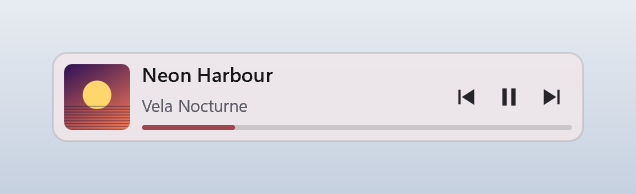
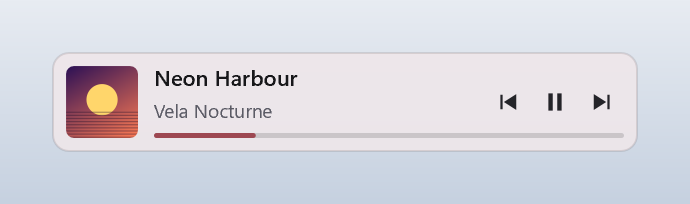
Barra e striscia agganciata: 10% piu' grandi e con piu' aria ai bordi
Altezza 45 -> 50 DIP, margine dal bordo 6 -> 7, stacco interno 6 -> 8,
copertina 36, bottoni 23, titolo 11 e artista 9,5 pt; default bar_width
266 -> 293 (minimo 185). Spessore della progress, bordo, pesi e palette
invariati: stessa cosa piu' grande, non un restyling. Taskbar e tile
non toccati (i loro PNG rigenerati sono byte-identici). Screenshot,
GIF e social preview di docs/media rigenerati. README.

Changed region(s): [[0.0597, 0.2474, 0.9261, 0.7423]]

diff --git a/src/render.cpp b/src/render.cpp
@@ -13,16 +13,19 @@ namespace {
 // in DIP, quindi la riduzione vale identica a ogni densità.
 constexpr float kProgressH = 2.5f;
 
-// Bar / Docked
-constexpr float kBarHeight  = 45.f;
-constexpr float kBarPad     = 6.f;
-constexpr float kBarArt     = 33.f;  // = kBarHeight - kBarPad * 2
-constexpr float kBarButton  = 21.f;
-constexpr float kBarCorner  = 7.f;
-constexpr float kBarProgY   = 36.5f;  // = kBarHeight - kBarPad - kProgressH
-constexpr float kBarGap     = 6.f;    // copertina/testo/controlli
-constexpr float kDockedMaxW = 392.f;
-constexpr float kBarMinW    = 168.f;
+// Bar / Docked. Dalla 1.1 la barretta è ~10% più alta e ha più aria attorno ai
+// contenuti: il margine dal bordo passa da 6 a 7 DIP e lo stacco fra copertina,
+// testo e comandi da 6 a 8. Spessore della progress, bordo e pesi del testo
+// restano quelli di prima: qui si cambia la misura, non lo stile.
+constexpr float kBarHeight  = 50.f;
+constexpr float kBarPad     = 7.f;
+constexpr float kBarArt     = 36.f;  // = kBarHeight - kBarPad * 2
+constexpr float kBarButton  = 23.f;
+constexpr float kBarCorner  = 8.f;
+constexpr float kBarProgY   = 40.5f;  // = kBarHeight - kBarPad - kProgressH
+constexpr float kBarGap     = 8.f;    // copertina/testo/controlli
+constexpr float kDockedMaxW = 420.f;
+constexpr float kBarMinW    = 185.f;
 constexpr float kBarMaxW    = 840.f;
 
 // Docked sui bordi laterali: striscia stretta e alta quanto lo schermo. Il
@@ -91,7 +94,7 @@ Geometry ComputeGeometry(const RenderState& st, float w, float h) {
             ThreeButtons(g, ctrlLeft, h * 0.5f, kBarButton);
 
             const float textLeft = x0 + kBarPad + kBarArt + kBarGap;
-            g.text = D2D1::RectF(textLeft, 3.f, ctrlLeft - kBarGap, kBarProgY - 2.f);
+            g.text = D2D1::RectF(textLeft, 4.f, ctrlLeft - kBarGap, kBarProgY - 3.f);
             g.progress = D2D1::RectF(textLeft, kBarProgY, x0 + cw - kBarPad, kBarProgY + kProgressH);
 
             g.showText    = true;
@@ -405,8 +408,9 @@ bool Renderer::Init(HWND hwnd, UINT dpi) {
         }
         return true;
     };
-    if (!makeFormat(10.0f, DWRITE_FONT_WEIGHT_SEMI_BOLD, fmtTitle_)) return false;
-    if (!makeFormat(8.5f, DWRITE_FONT_WEIGHT_NORMAL, fmtArtist_)) return false;
+    // Barretta e docked: cresciuti insieme all'altezza, stesso peso di prima.
+    if (!makeFormat(11.0f, DWRITE_FONT_WEIGHT_SEMI_BOLD, fmtTitle_)) return false;
+    if (!makeFormat(9.5f, DWRITE_FONT_WEIGHT_NORMAL, fmtArtist_)) return false;
     if (!makeFormat(11.0f, DWRITE_FONT_WEIGHT_SEMI_BOLD, fmtTitleSm_)) return false;
     if (!makeFormat(9.5f, DWRITE_FONT_WEIGHT_NORMAL, fmtArtistSm_)) return false;
 

diff --git a/src/config.cpp b/src/config.cpp
@@ -125,7 +125,7 @@ void Config::Load() {
     overlayLayout = (ReadStr(path_, L"overlay", L"layout", L"bar") == L"tile")
                         ? OverlayLayout::Tile
                         : OverlayLayout::Bar;
-    barWidth      = Clamp(ReadInt(path_, L"overlay", L"bar_width", 266), 168, 840);
+    barWidth      = Clamp(ReadInt(path_, L"overlay", L"bar_width", 293), 185, 840);
     tileSize      = Clamp(ReadInt(path_, L"overlay", L"tile_size", 92), 68, 224);
     x             = ReadInt(path_, L"overlay", L"x", INT_MIN);
     y             = ReadInt(path_, L"overlay", L"y", INT_MIN);
@@ -164,7 +164,7 @@ void Config::WriteDefaultsIfMissing() {
     WritePrivateProfileStringW(L"general", L"preferred_app", L"Spotify", path_.c_str());
     WritePrivateProfileStringW(L"general", L"theme", L"auto", path_.c_str());
     WritePrivateProfileStringW(L"overlay", L"layout", L"bar", path_.c_str());
-    WritePrivateProfileStringW(L"overlay", L"bar_width", L"266", path_.c_str());
+    WritePrivateProfileStringW(L"overlay", L"bar_width", L"293", path_.c_str());
     WritePrivateProfileStringW(L"overlay", L"tile_size", L"92", path_.c_str());
     WritePrivateProfileStringW(L"overlay", L"idle_opacity", L"140", path_.c_str());
     WritePrivateProfileStringW(L"docked", L"edge", L"bottom", path_.c_str());
@@ -191,7 +191,7 @@ void Config::SaveOverlaySize(int dip) {
         tileSize = Clamp(dip, 68, 224);
         WriteInt(path_, L"overlay", L"tile_size", tileSize);
     } else {
-        barWidth = Clamp(dip, 168, 840);
+        barWidth = Clamp(dip, 185, 840);
         WriteInt(path_, L"overlay", L"bar_width", barWidth);
     }
 }

diff --git a/src/config.h b/src/config.h
@@ -16,7 +16,7 @@ struct Config {
 
     // [overlay]
     OverlayLayout overlayLayout = OverlayLayout::Bar;
-    int           barWidth      = 266;  // DIP
+    int           barWidth      = 293;  // DIP
     int           tileSize      = 92;   // DIP, lato del quadrato
     int           x             = INT_MIN;  // INT_MIN = posizione automatica
     int           y             = INT_MIN;

diff --git a/README.it.md b/README.it.md
@@ -78,7 +78,7 @@ preferred_app=Spotify ; sottostringa del SourceAppUserModelId della sessione pre
 
 [overlay]
 layout=bar            ; bar (barretta orizzontale) | tile (riquadro con la copertina)
-bar_width=266         ; larghezza della barretta in DIP, 168-840
+bar_width=293         ; larghezza della barretta in DIP, 185-840
 tile_size=92          ; lato del riquadro in DIP, 68-224
 x=…  y=…              ; scritti al rilascio del drag
 idle_opacity=140      ; 0-255, opacità a riposo
@@ -123,7 +123,7 @@ Nel menu si chiamano **Overlay**, **Docked to an edge** (agganciata a un bordo) 
 | Controlli | all'hover | sempre | sempre |
 | Sopra i giochi | sì | no | sì, finché la taskbar è visibile |
 | Aspetti disponibili | barretta o riquadro | barretta | pillola compatta |
-| Ingombro predefinito | 266×45 o 92×92 DIP | 45 DIP di altezza | altezza della taskbar |
+| Ingombro predefinito | 293×50 o 92×92 DIP | 50 DIP di altezza, 56 di larghezza sui bordi laterali | altezza della taskbar |
 
 Ogni volta che compare — all'avvio, riaprendola dalla tray o dall'hotkey, o passando alla
 modalità overlay — la barretta si mostra a piena opacità per un paio di secondi prima di

diff --git a/README.md b/README.md
@@ -81,7 +81,7 @@ repository and will appear once it is merged.
 | Controls | on hover | always | always |
 | Over fullscreen-windowed games | yes | no | yes, while the taskbar is visible |
 | Looks available | bar or tile | bar | compact pill |
-| Default footprint | 266×45 or 92×92 DIP | 45 DIP tall | taskbar height |
+| Default footprint | 293×50 or 92×92 DIP | 50 DIP tall, 56 DIP wide on a side edge | taskbar height |
 
 **Overlay**, the bar look — drag it anywhere, click-through and dimmed until you hover it.
 Whenever it appears — at startup, when you bring it back from the tray or the hotkey, or
@@ -228,7 +228,7 @@ preferred_app=Spotify ; substring of the media session's SourceAppUserModelId;
 
 [overlay]
 layout=bar            ; bar (horizontal strip) | tile (square, cover only)
-bar_width=266         ; DIP, 168-840
+bar_width=293         ; DIP, 185-840
 tile_size=92          ; DIP, 68-224
 x=…  y=…              ; written when you drop the bar after a drag
 idle_opacity=140      ; 0-255, opacity at rest
